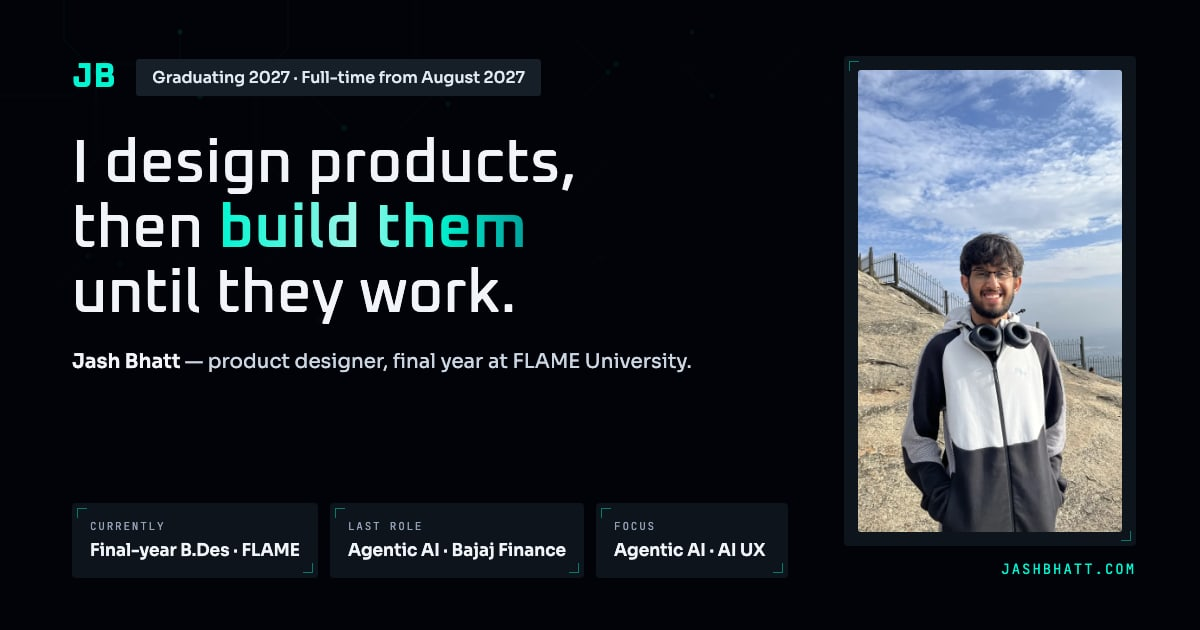
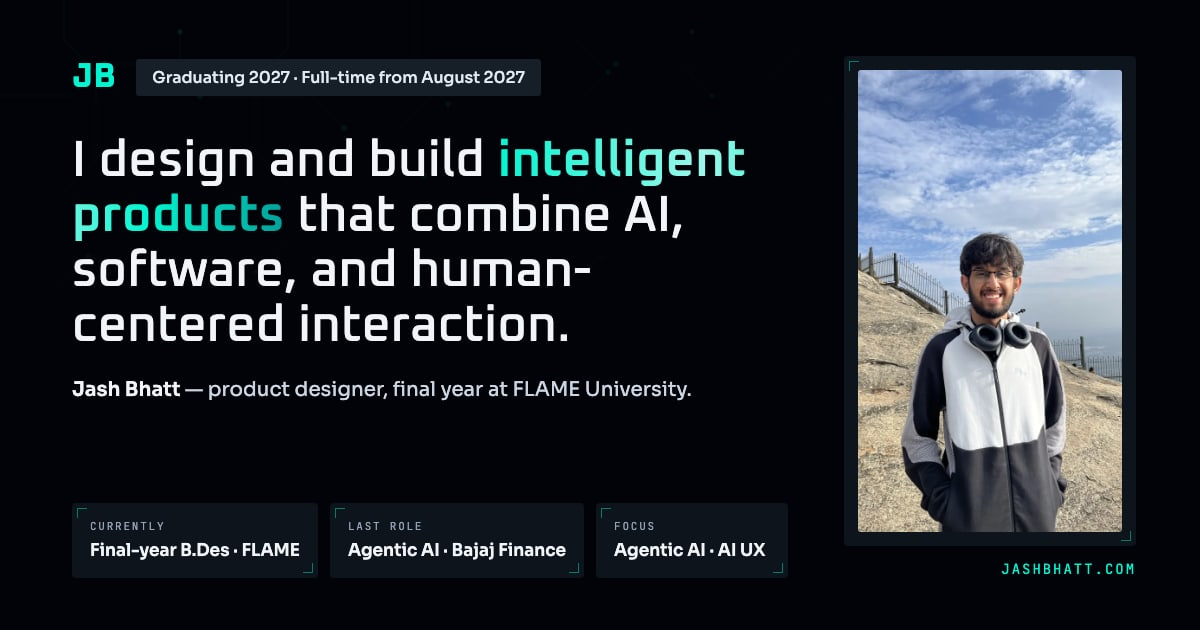
Restore the original hero line
Back to "I design and build intelligent products that combine AI,
software, and human-centered interaction." in the hero, the share card
and the noscript fallback.

It runs a line longer, so the hero ends at ~800px instead of ~730px at
the base size. The scaling's height reference moves from 768px to
816px so it still fits one screen on monitors: at 1920x960 it ends at
941px (with the old reference it ran 40px past the fold). Side margins
there are 11.8%, up from 9.4%.

Changed region(s): [[0.0617, 0.2111, 0.6167, 0.6333]]

diff --git a/scripts/og-card.html b/scripts/og-card.html
@@ -49,8 +49,8 @@
   .dot { width:8px; height:8px; border-radius:50%; background:rgb(var(--accent)); box-shadow:0 0 0 4px rgb(var(--accent) / .18); }
   h1 {
     font-family:'Oxanium', sans-serif; font-weight:500;
-    font-size:60px; line-height:1.08; letter-spacing:.01em;
-    margin-top:34px;
+    font-size:50px; line-height:1.1; letter-spacing:.01em;
+    margin-top:36px;
   }
   .accent {
     font-weight:600;
@@ -90,7 +90,7 @@
         <span class="mark">JB</span>
         <span class="chip">Graduating 2027 · Full-time from August 2027</span>
       </div>
-      <h1>I design products,<br>then <span class="accent">build them</span><br>until they work.</h1>
+      <h1>I design and build <span class="accent">intelligent products</span> that combine AI, software, and human-centered interaction.</h1>
       <p class="sub"><b>Jash Bhatt</b> — product designer, final year at FLAME University.</p>
       <div class="stats">
         <div class="surface marks stat"><div class="label">Currently</div><div class="value">Final-year B.Des · FLAME</div></div>

diff --git a/src/index.css b/src/index.css
@@ -74,8 +74,8 @@
    empty margin on an external monitor (at 2560px it filled half the screen).
 
    The scale follows whichever of width and height is tighter. The height
-   reference is 768px, the shortest window in which the hero still fits one
-   screen at the base size: on a 1920×1080 monitor the browser leaves ~960px
+   reference is 816px, a little taller than the hero at the base size (it
+   ends at ~800px), so the hero always fits one screen: on a 1920×1080 monitor the browser leaves ~960px
    of height, and scaling on width alone pushed the hero past the fold. On an
    ultrawide, height is the limit, so some margin remains there by design.
    Floored at the user's own default size; the 3x cap only guards against
@@ -85,7 +85,7 @@
    few things measured in pixels: icons below, Lewis, the circuit ground. */
 @media (min-width: 1441px) {
   html {
-    font-size: clamp(100%, min(100vw / 90, 100vh / 48), 300%);
+    font-size: clamp(100%, min(100vw / 90, 100vh / 51), 300%);
   }
 }
 

diff --git a/index.html b/index.html
@@ -46,7 +46,7 @@
     <noscript>
       <div style="max-width:40rem;margin:0 auto;padding:3rem 1.25rem;font-family:system-ui,sans-serif;color:#f1f5f9;background:#010309;line-height:1.6">
         <h1 style="font-size:1.75rem;margin:0 0 .5rem">Jash Bhatt</h1>
-        <p style="margin:0 0 1.5rem;color:#cbd5e1">Product designer. I design products, then build them until they work.</p>
+        <p style="margin:0 0 1.5rem;color:#cbd5e1">Product designer. I design and build intelligent products that combine AI, software, and human-centered interaction.</p>
         <p style="margin:0 0 1.5rem;color:#94a3b8">This portfolio needs JavaScript to show the case studies. Everything below still works without it.</p>
         <p style="margin:0">
           <a href="mailto:jashbhatt.contact@gmail.com" style="color:#01f5d1">jashbhatt.contact@gmail.com</a><br />

diff --git a/src/App.tsx b/src/App.tsx
@@ -1194,7 +1194,7 @@ const App = () => {
                     </span>
                   </div>
                   <h1 className={`${ui.h1} font-display text-ink mb-3.5 md:mb-5 animate-fade-in-up`} style={{ animationDelay: '60ms' }}>
-                    I design products, then <span className="accent-shimmer font-semibold">build them</span> until they work.
+                    I design and build <span className="accent-shimmer font-semibold">intelligent products</span> that combine AI, software, and human-centered interaction.
                   </h1>
                   {/* One title. The line under it used to cycle through five
                       identities, from Product Designer to Circuit & Hardware. */}
